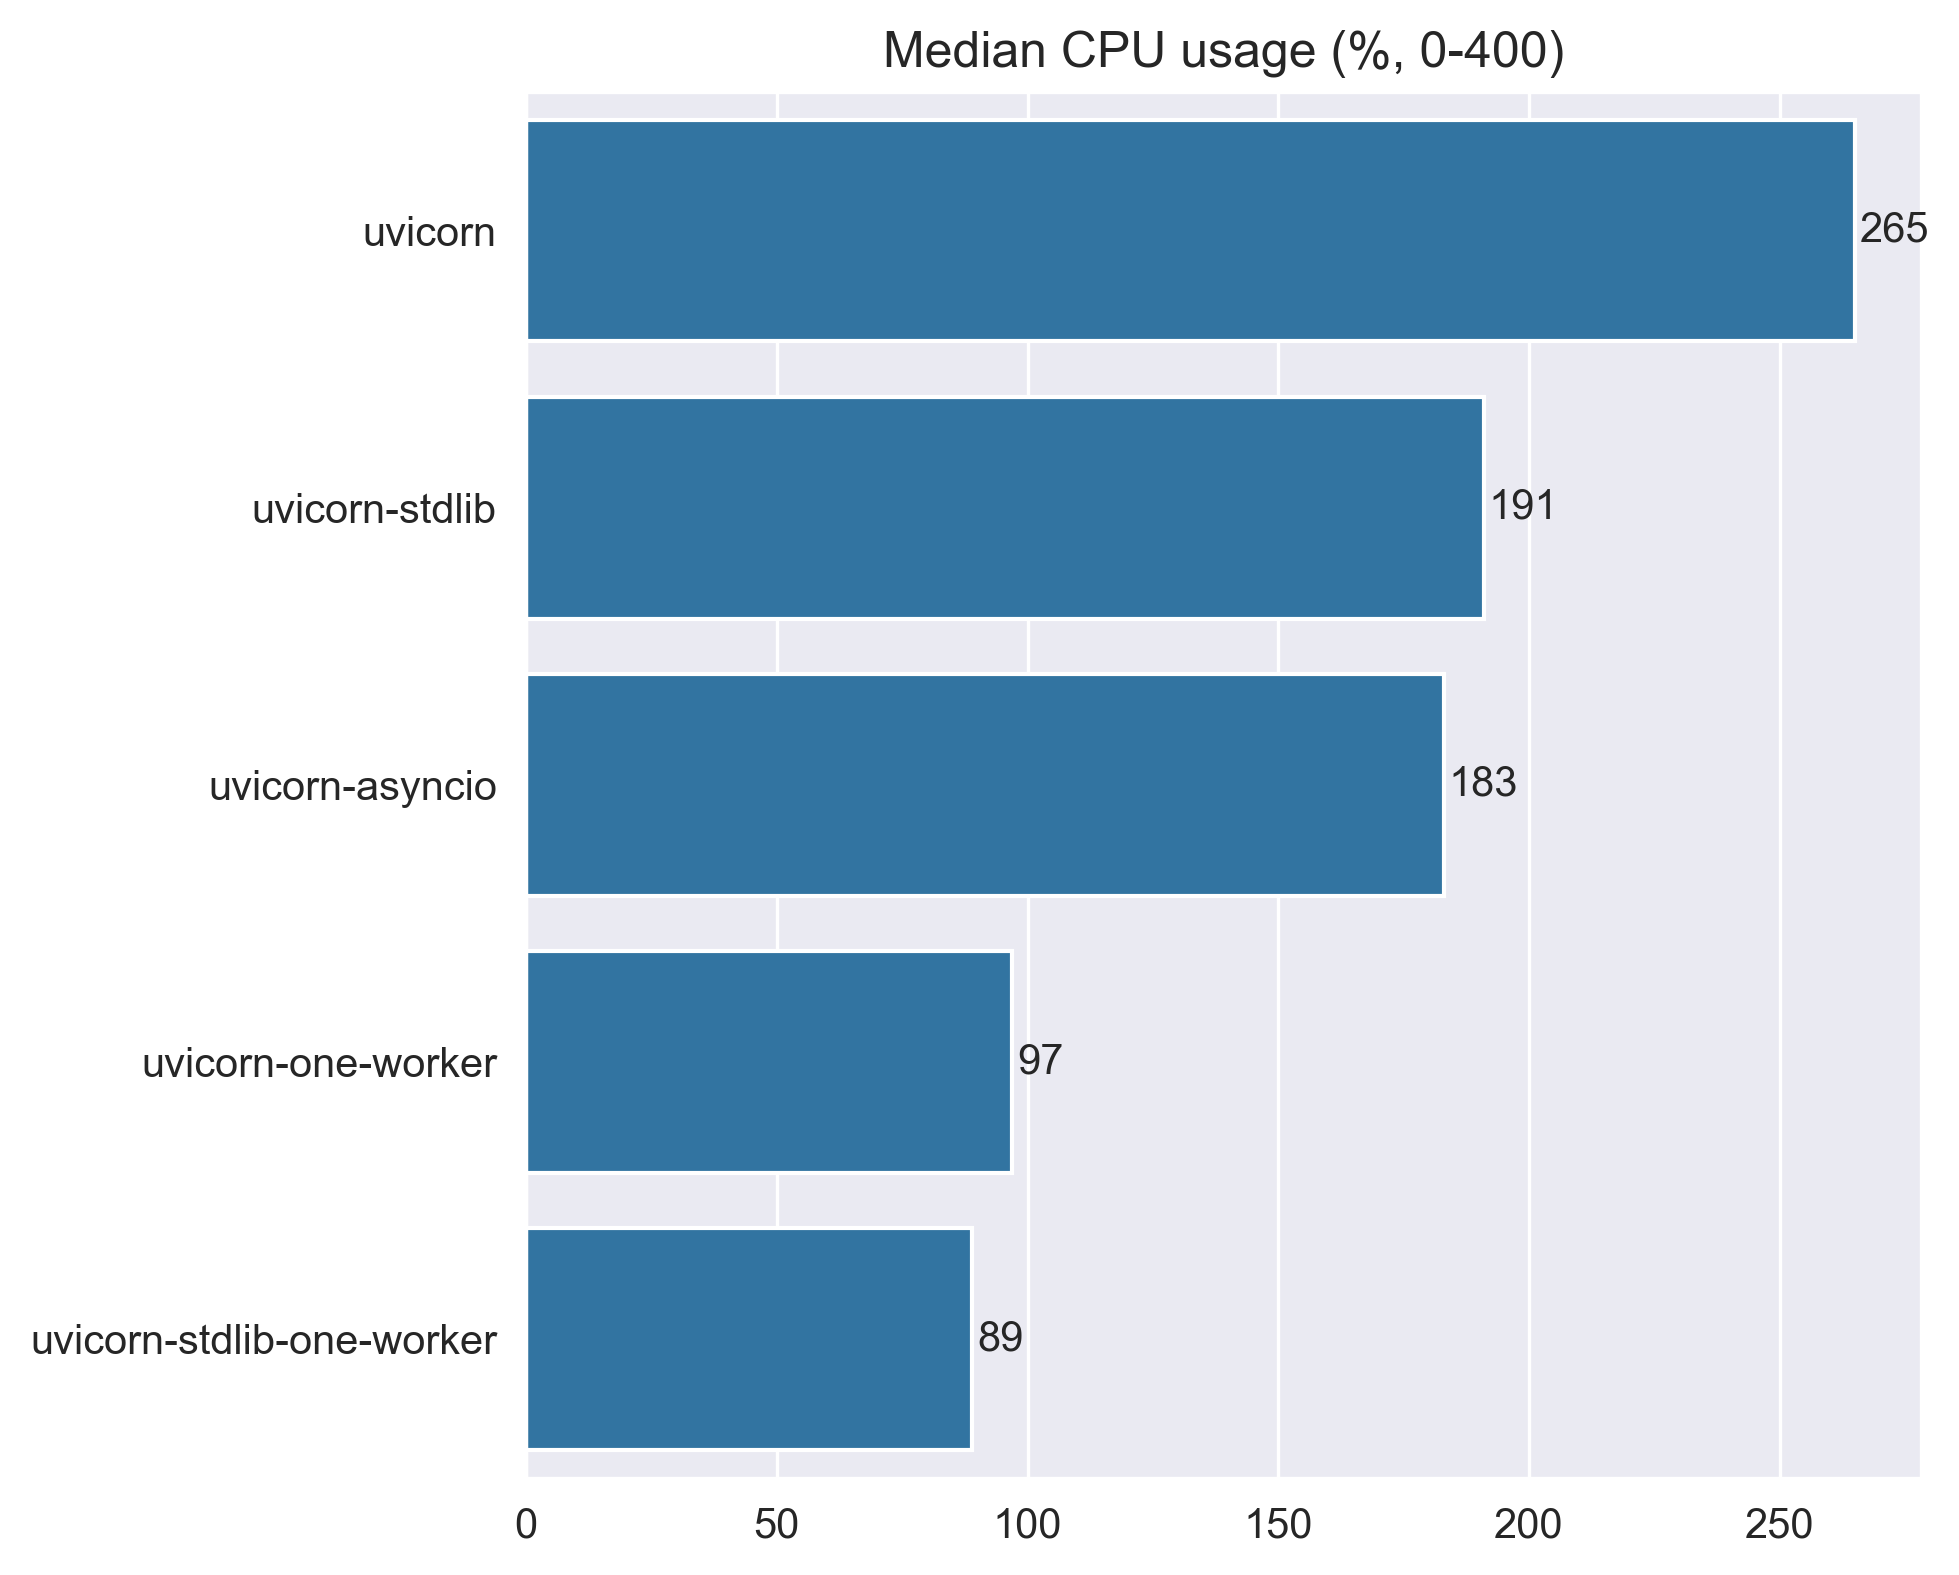
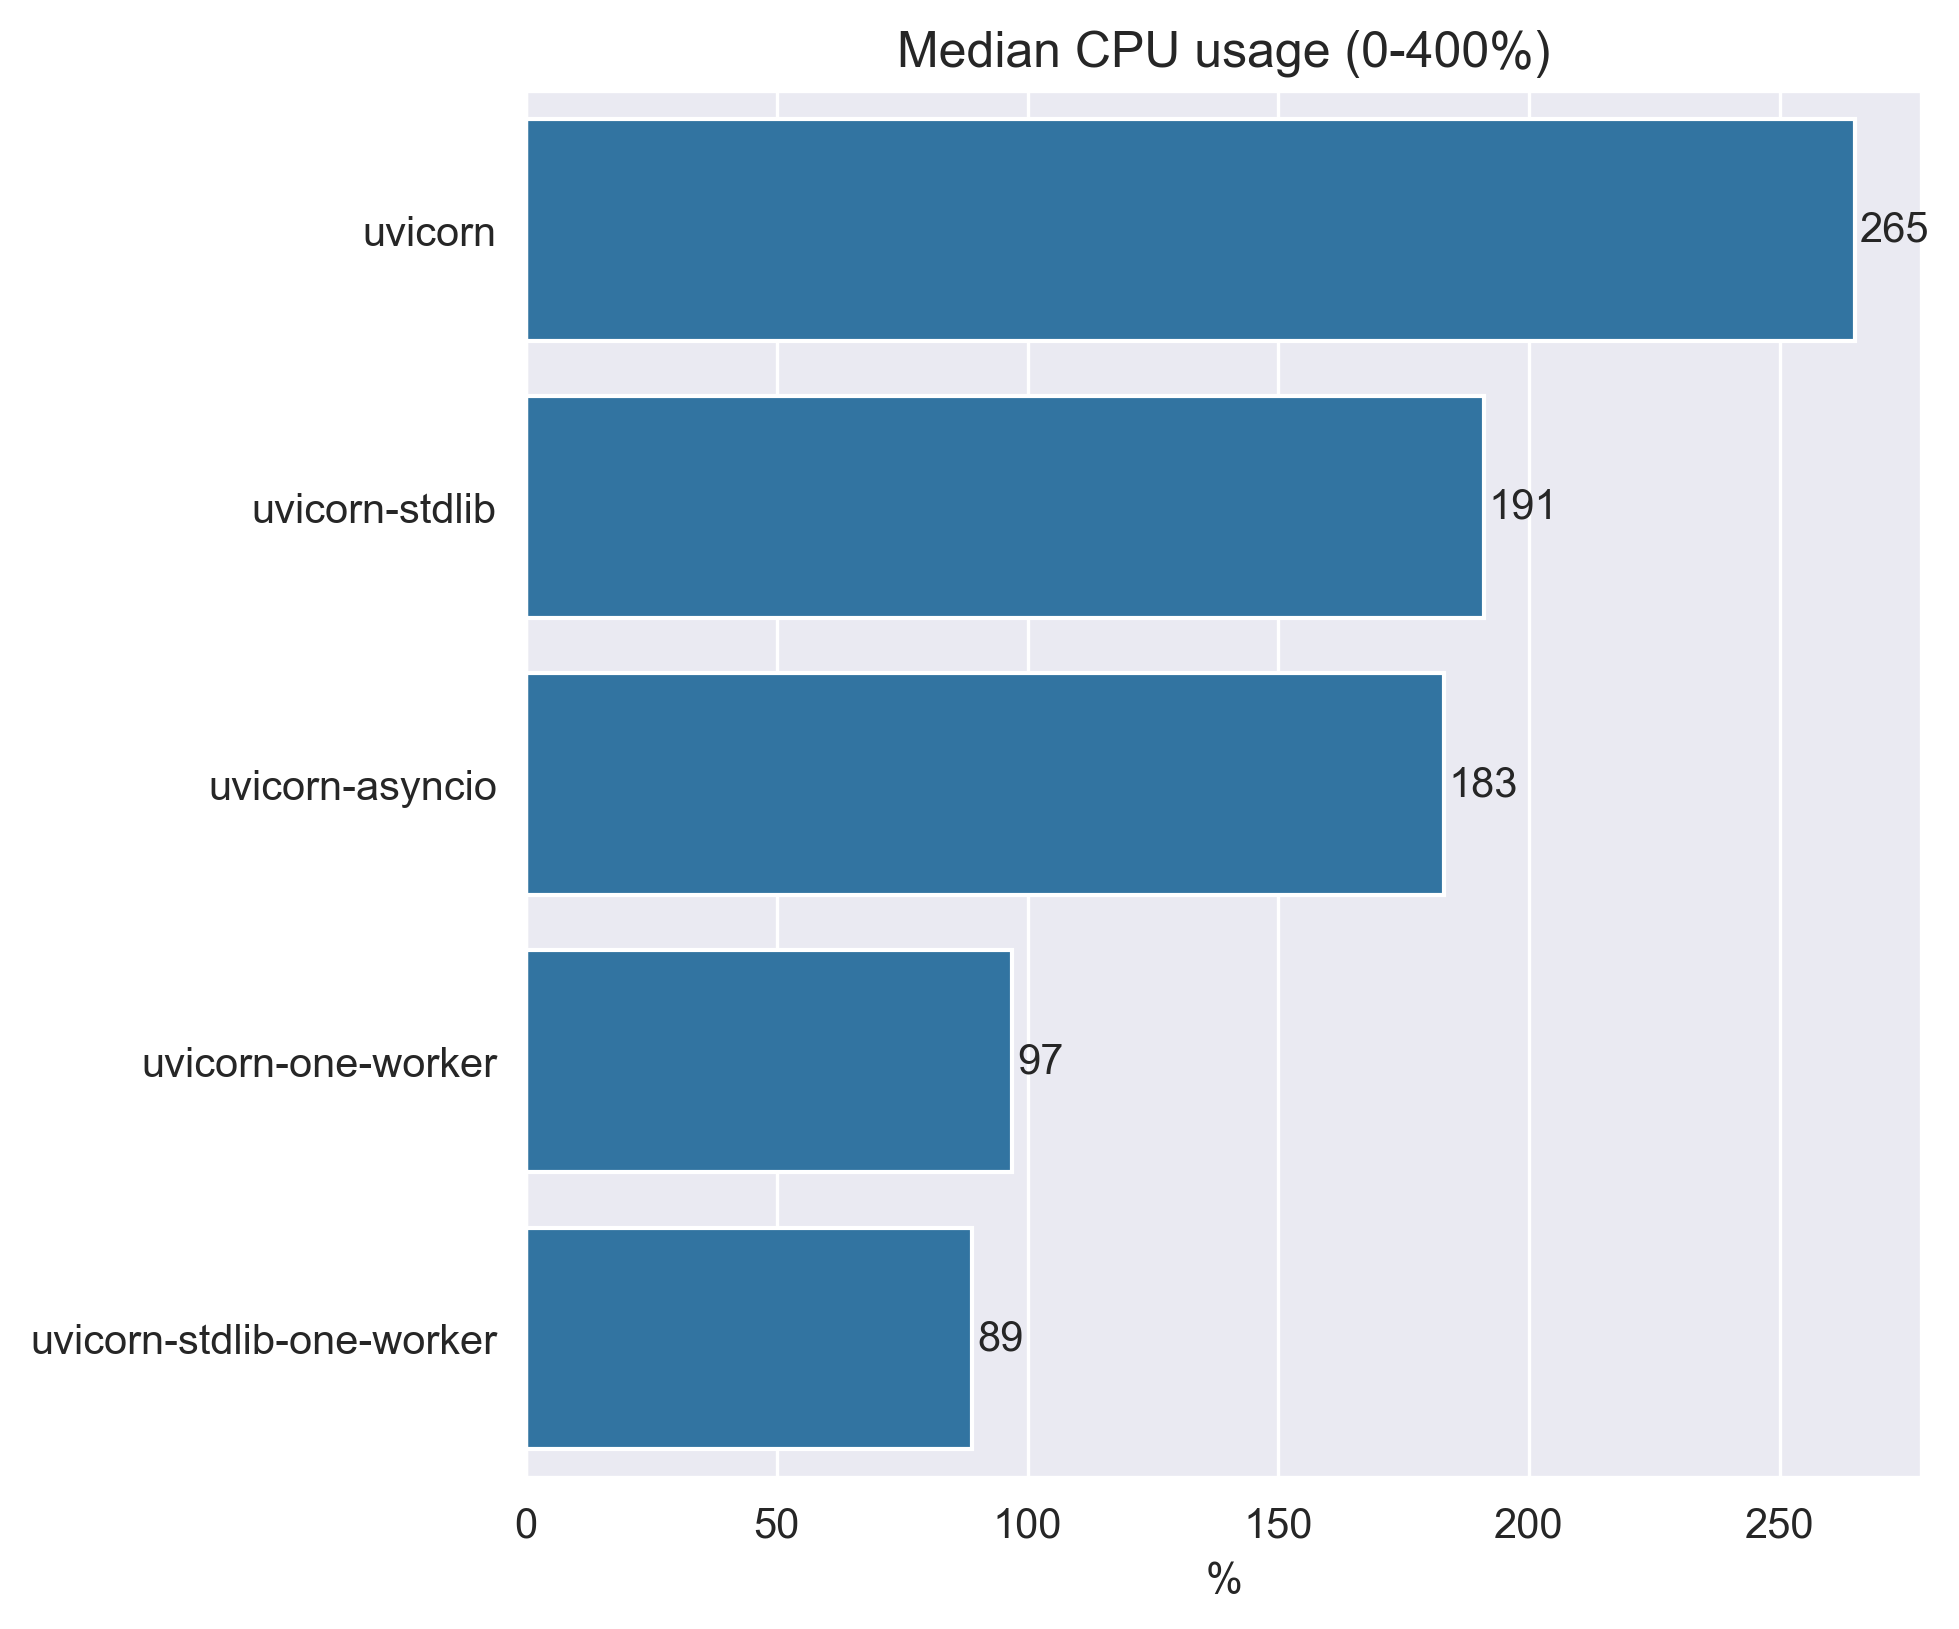
update images

diff --git a/scripts/generate_readme.py b/scripts/generate_readme.py
@@ -69,42 +69,42 @@ def generate_images(benchmarks: dict[str, list[BenchmarkResults]]) -> dict[str, 
 
         rps = [result.rps for result in benchmark_results]
         rps_image = filename_template.format("rps")
-        create_chart(names, rps, "Requests per second", rps_image)
+        create_chart(names, rps, "Requests per second", rps_image, x_label="RPS (higher is better)")
         images_by_test_name[test_name]["rps"] = rps_image
 
         latency_avg = [seconds_to_ms(result.latency_avg) for result in benchmark_results]
         latency_avg_image = filename_template.format("latency_avg")
-        create_chart(names, latency_avg, "Average latency (ms)", latency_avg_image)
+        create_chart(names, latency_avg, "Average latency", latency_avg_image, x_label="ms, lower is better", reverse=False)
         images_by_test_name[test_name]["latency_avg"] = latency_avg_image
 
         latency_max = [seconds_to_ms(result.latency_max) for result in benchmark_results]
         latency_max_image = filename_template.format("latency_max")
-        create_chart(names, latency_max, "Max latency (ms)", latency_max_image)
+        create_chart(names, latency_max, "Max latency", latency_max_image, x_label="ms, lower is better", reverse=False)
         images_by_test_name[test_name]["latency_max"] = latency_max_image
 
         latency_90th = [seconds_to_ms(result.latency_90th) for result in benchmark_results]
         latency_90th_image = filename_template.format("latency_90th")
-        create_chart(names, latency_90th, "90th percentile latency (ms)", latency_90th_image)
+        create_chart(names, latency_90th, "90th percentile latency", latency_90th_image, x_label="ms, lower is better", reverse=False)
         images_by_test_name[test_name]["latency_90th"] = latency_90th_image
 
         cpu_avg_percent = [round(result.cpu_avg_percent) for result in benchmark_results]
         cpu_avg_percent_image = filename_template.format("cpu_avg_percent")
-        create_chart(names, cpu_avg_percent, "Average CPU usage (%, 0-400)", cpu_avg_percent_image)
+        create_chart(names, cpu_avg_percent, "Average CPU usage (0-400%)", cpu_avg_percent_image, x_label="%")
         images_by_test_name[test_name]["cpu_avg_percent"] = cpu_avg_percent_image
 
         cpu_median_percent = [round(result.cpu_median_percent) for result in benchmark_results]
         cpu_median_percent_image = filename_template.format("cpu_median_percent")
-        create_chart(names, cpu_median_percent, "Median CPU usage (%, 0-400)", cpu_median_percent_image)
+        create_chart(names, cpu_median_percent, "Median CPU usage (0-400%)", cpu_median_percent_image, x_label="%")
         images_by_test_name[test_name]["cpu_median_percent"] = cpu_median_percent_image
 
         memory_median_mb = [result.memory_median_mb for result in benchmark_results]
         memory_median_mb_image = filename_template.format("memory_median_mb")
-        create_chart(names, memory_median_mb, "Median memory usage (mb)", memory_median_mb_image)
+        create_chart(names, memory_median_mb, "Median memory usage", memory_median_mb_image, x_label="mb, lower is better", reverse=False)
         images_by_test_name[test_name]["memory_median_mb"] = memory_median_mb_image
 
         memory_max_mb = [result.memory_max_mb for result in benchmark_results]
         memory_max_mb_image = filename_template.format("memory_max_mb")
-        create_chart(names, memory_max_mb, "Max memory usage (mb)", memory_max_mb_image)
+        create_chart(names, memory_max_mb, "Max memory usage", memory_max_mb_image, x_label="mb, lower is better", reverse=False)
         images_by_test_name[test_name]["memory_max_mb"] = memory_max_mb_image
 
     return images_by_test_name
@@ -119,9 +119,9 @@ def seconds_to_ms(seconds: float) -> int:
     return round(seconds * 1000)
 
 
-def create_chart(names: list[str], values: list[float], title: str, filename: str):
+def create_chart(names: list[str], values: list[float], title: str, filename: str, x_label: str | None = None, reverse: bool = True):
     items = list(zip(names, values))
-    items.sort(key=lambda x: x[1], reverse=True)
+    items.sort(key=lambda x: x[1], reverse=reverse)
     sorted_names, sorted_values = zip(*items)
 
     sns.set_style("darkgrid")
@@ -135,6 +135,8 @@ def create_chart(names: list[str], values: list[float], title: str, filename: st
         barplot.text(v + 1, i, str(v), va='center')
 
     plt.title(title)
+    if x_label:
+        plt.xlabel(x_label)
     # https://stackoverflow.com/questions/1271023/
     plt.savefig(filename, dpi=300, bbox_inches="tight")
     # plt.show()
